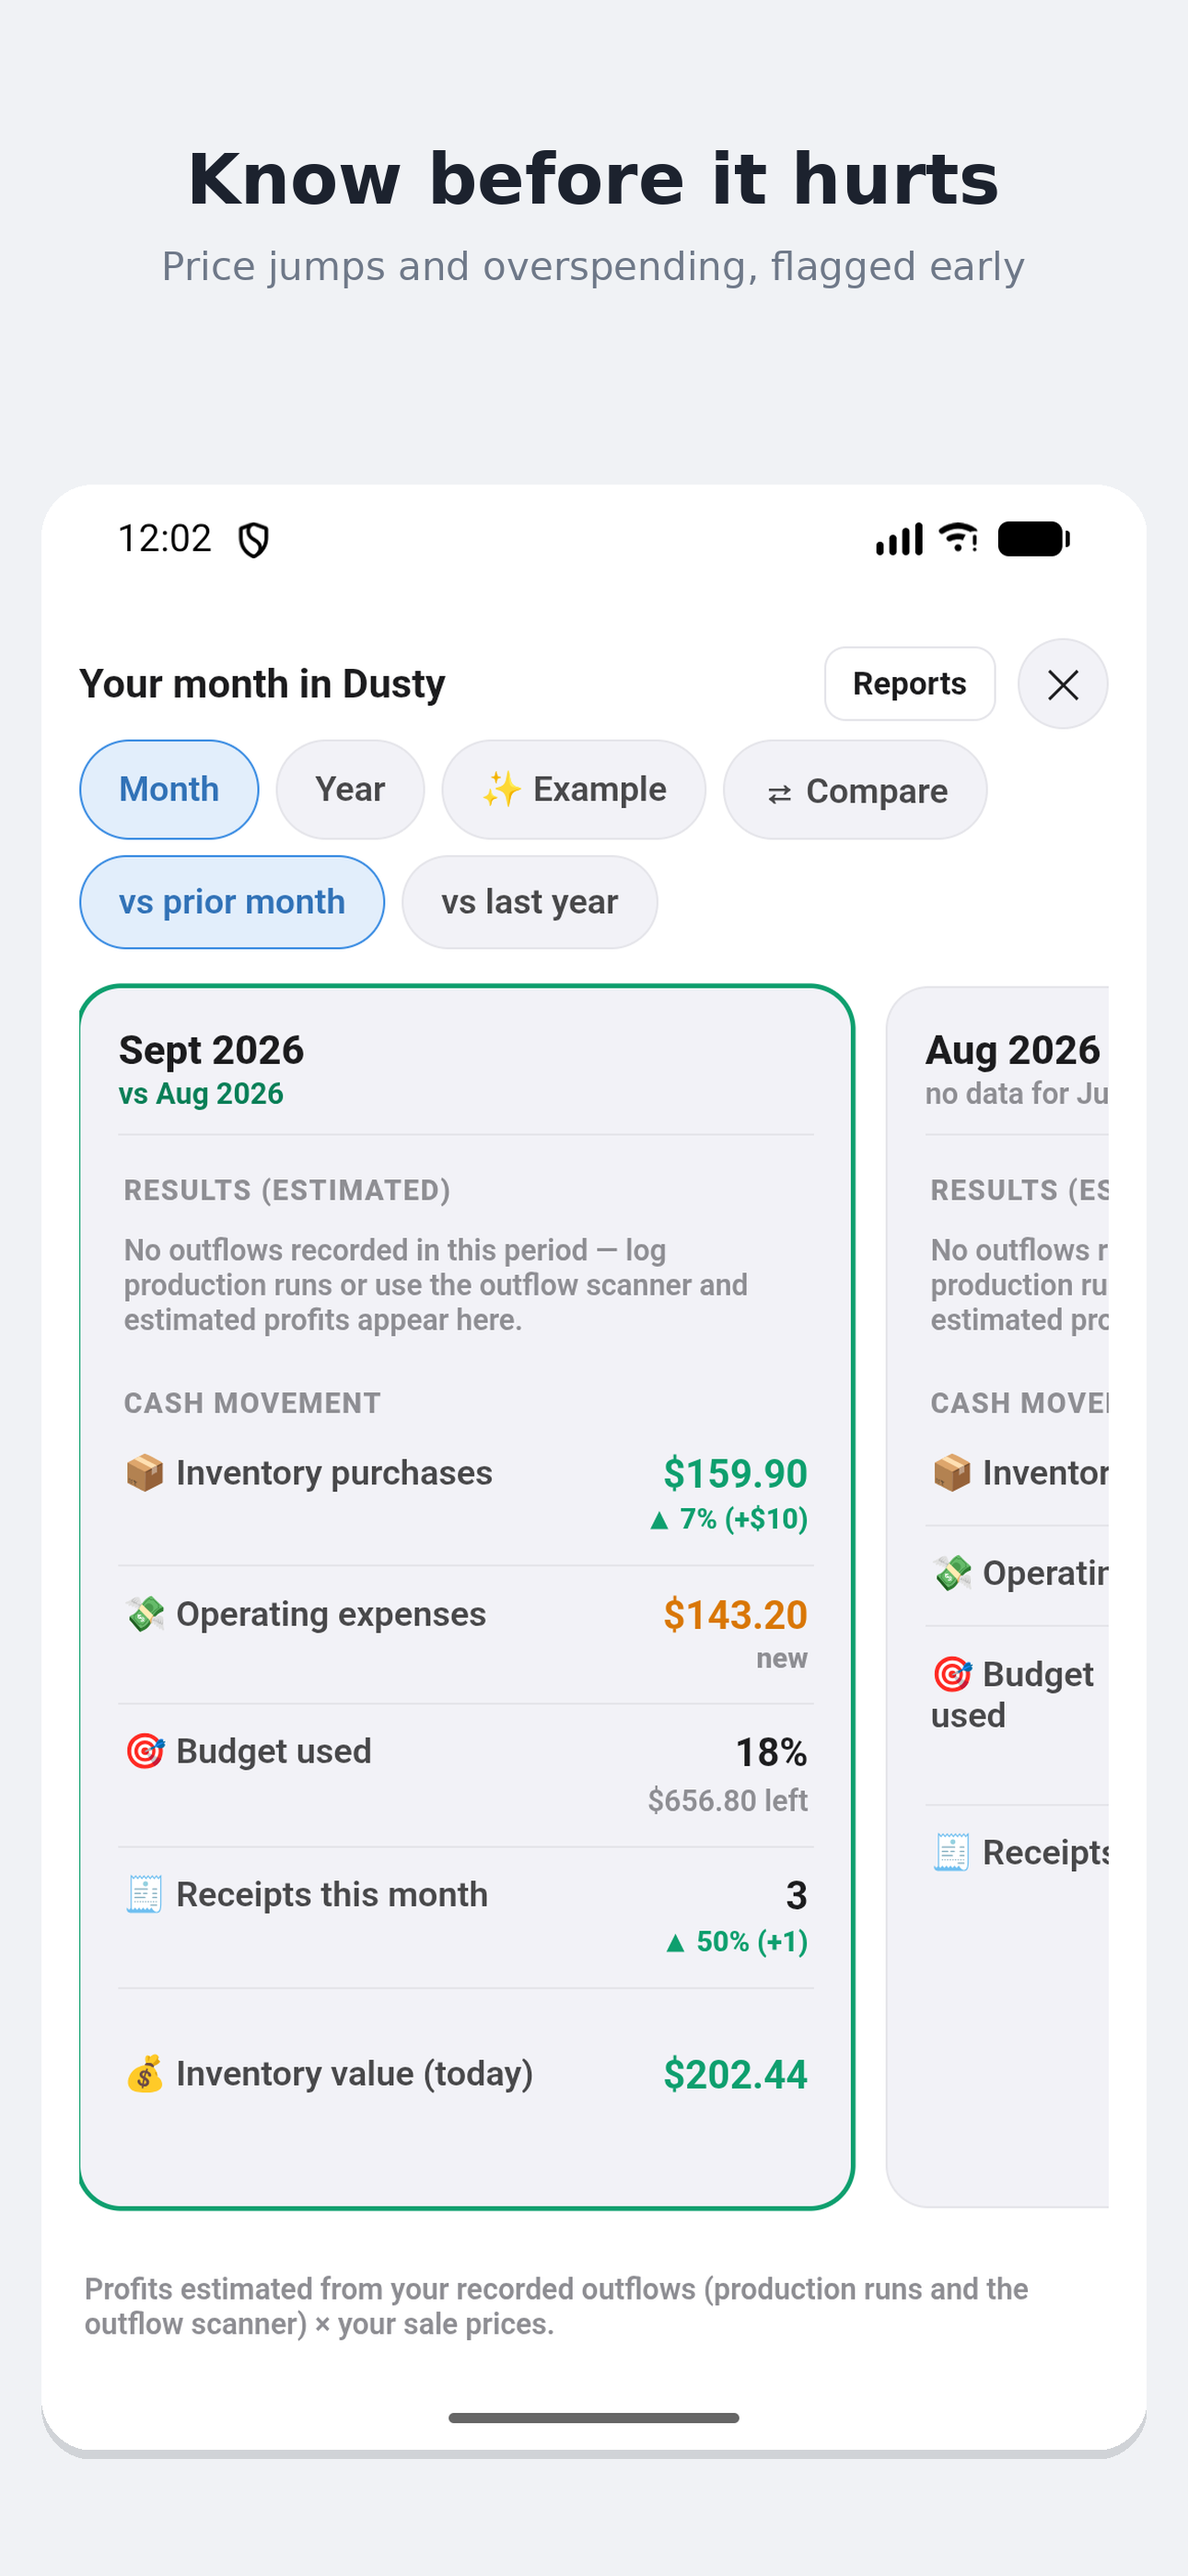
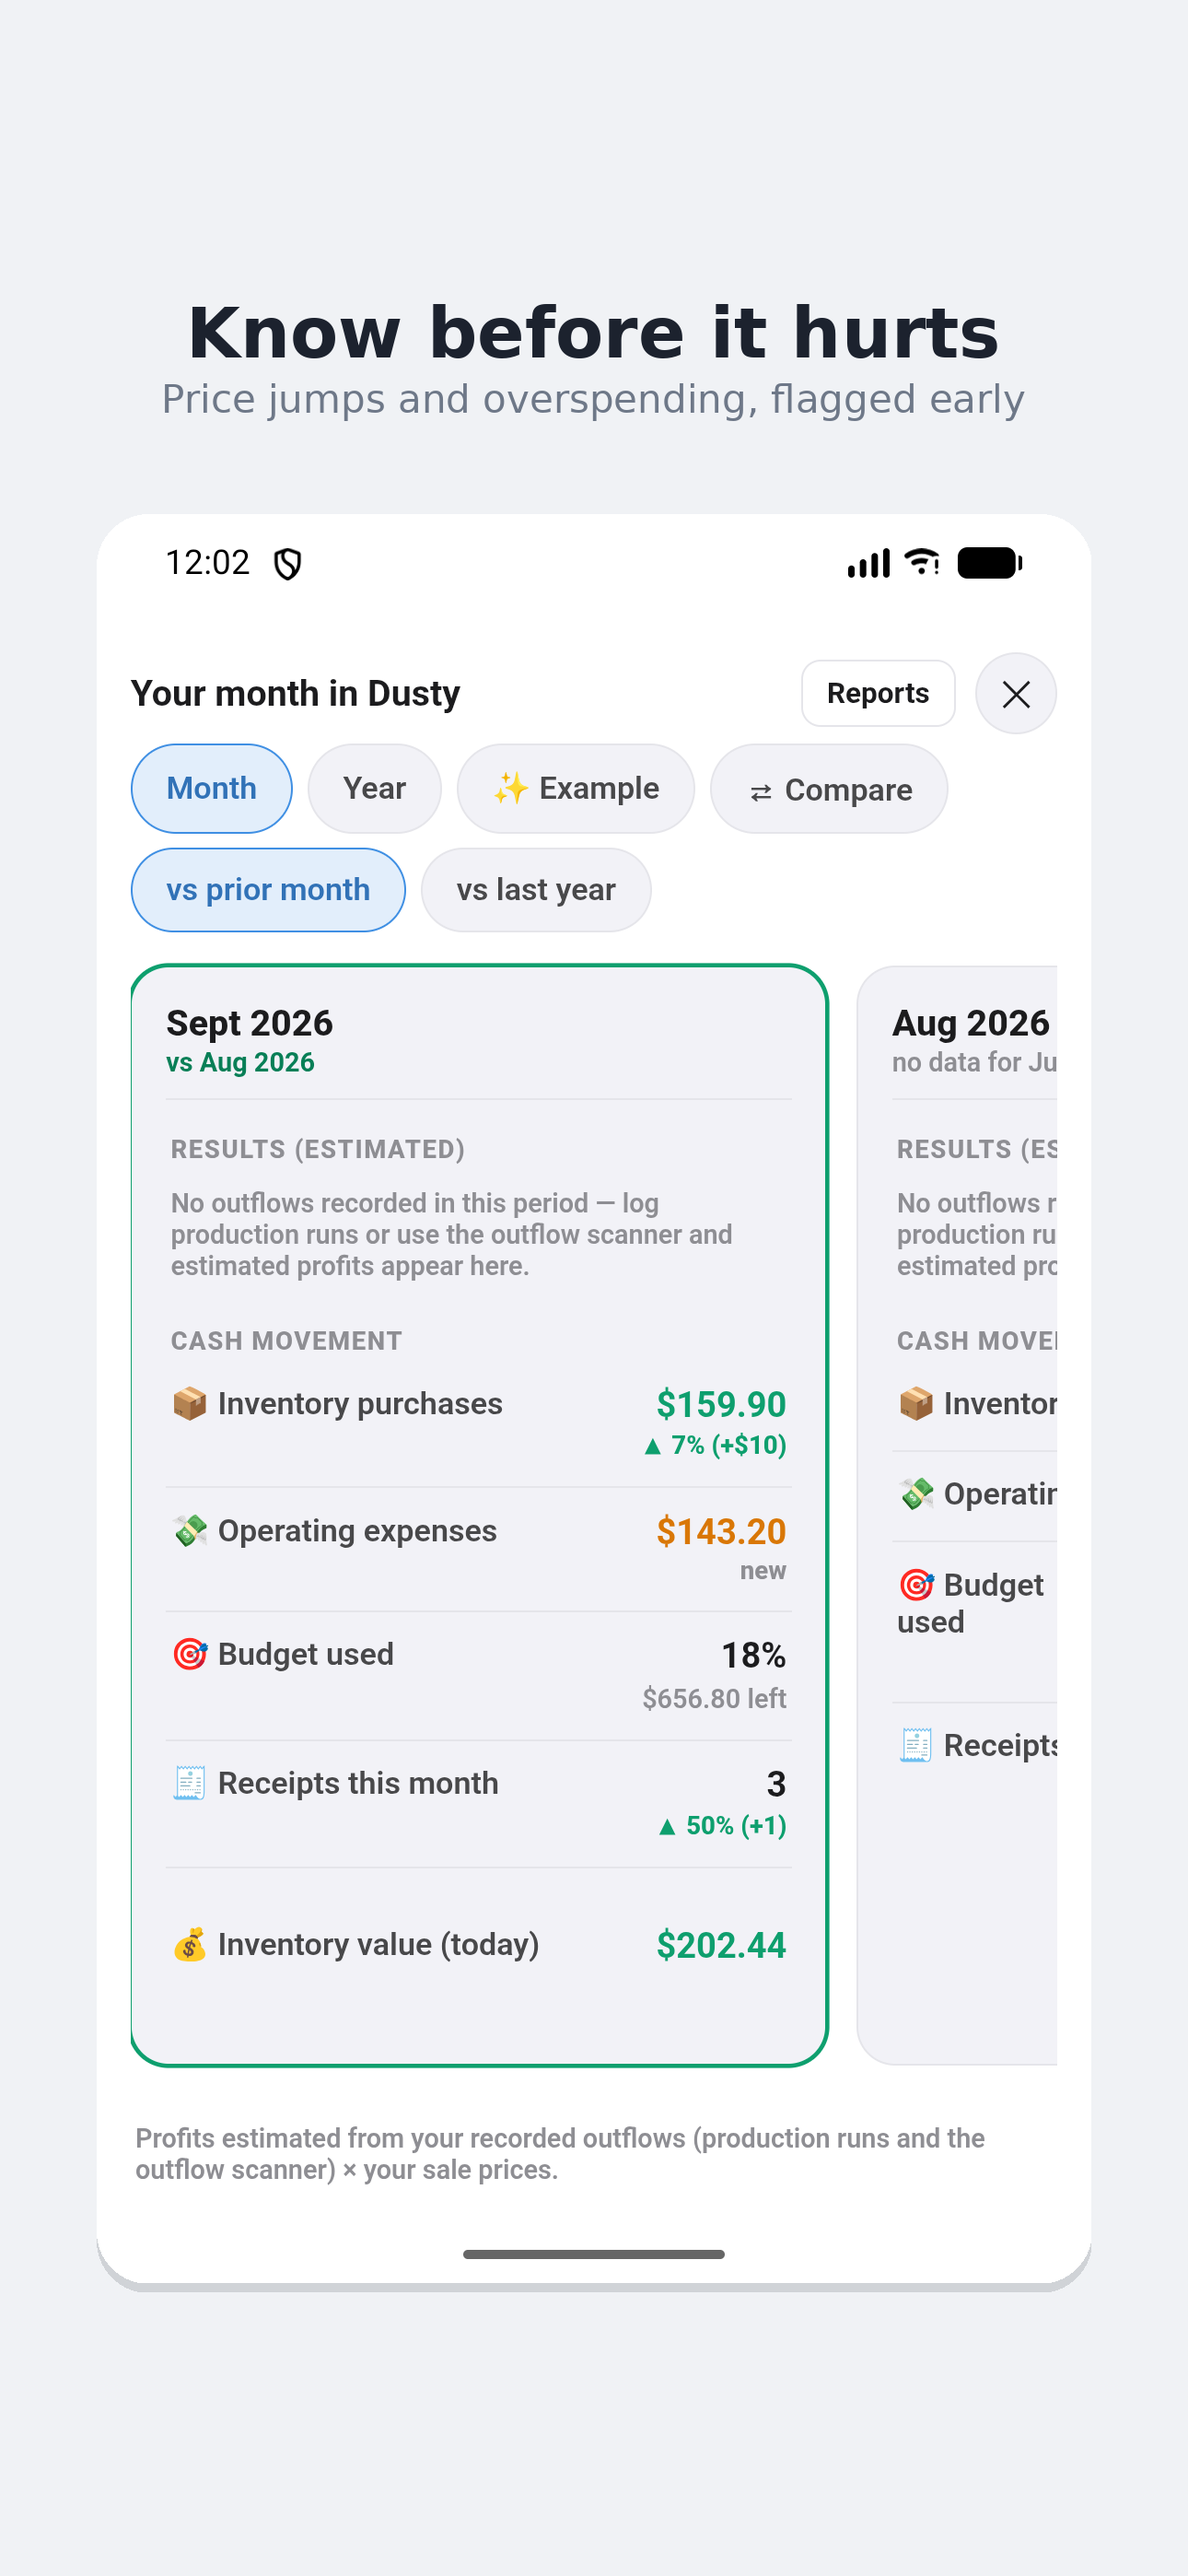
Las capturas de App Store dejan de agrandarse
La versión anterior estiraba la captura de 1080 a 1200 de ancho para llenar el
lienzo, o sea un 11% de agrandamiento y pérdida de nitidez a cambio de nada: el
lienzo mide 1290 y el original 1080, así que entra tal cual. Ahora solo se
achica si alguna vez entra una captura más ancha que el lienzo, y el texto se
centra junto con la imagen como un solo bloque — anclado arriba quedaba un pozo
entre la bajada y la captura que se leía como un olvido de maquetado.

Claude-Session: https://claude.ai/code/session_01QHYvS7ErrmfPLF5JLpFZV7

diff --git a/scripts/build-ios-screenshots.py b/scripts/build-ios-screenshots.py
@@ -59,22 +59,33 @@ def armar(nombre_origen, titulo, bajada, salida):
     lienzo = Image.new('RGB', (ANCHO, ALTO), FONDO)
     draw = ImageDraw.Draw(lienzo)
 
-    centrar_texto(draw, titulo, 150, fuente(76, negrita=True), TINTA)
-    centrar_texto(draw, bajada, 265, fuente(42), TINTA_SUAVE)
 
-    # La captura se lleva todo el ancho que permita el margen y se centra en lo
-    # que queda debajo del texto. Un margen chico importa: con 90px a cada lado
-    # sobraban casi 400px de fondo vacío abajo, que se lee como un error de
-    # maquetado y no como aire a propósito.
-    margen = 45
-    ancho_captura = ANCHO - margen * 2
-    escala = ancho_captura / captura.width
-    alto_captura = int(captura.height * escala)
-    captura = captura.resize((ancho_captura, alto_captura), Image.LANCZOS)
+    # NUNCA se agranda la captura. El lienzo tiene 1290 de ancho y el original
+    # 1080, así que entra tal cual: estirarlo al ancho disponible sería un 11% de
+    # agrandamiento y perder nitidez por nada, cuando lo que sobra es lienzo, no
+    # imagen. Solo se achica si alguna vez entra una captura más ancha que el
+    # lienzo (por ejemplo, sacada de un simulador Pro Max).
+    margen_minimo = 45
+    ancho_maximo = ANCHO - margen_minimo * 2
+    if captura.width > ancho_maximo:
+        escala = ancho_maximo / captura.width
+        captura = captura.resize(
+            (ancho_maximo, int(captura.height * escala)), Image.LANCZOS)
+    ancho_captura, alto_captura = captura.size
+    margen = (ANCHO - ancho_captura) // 2
     captura = esquinas_redondeadas(captura, 56)
 
-    tope_texto = 390
-    arriba = tope_texto + (ALTO - tope_texto - alto_captura) // 2
+    # Texto y captura se centran como un solo bloque en vez de repartirse el
+    # lienzo por separado: al no agrandar la captura sobra bastante alto, y
+    # anclando el texto arriba del todo quedaba un pozo entre la bajada y la
+    # imagen que se leía como un olvido.
+    ALTO_TITULO, ALTO_BAJADA, AIRE = 92, 54, 95
+    alto_bloque = ALTO_TITULO + ALTO_BAJADA + AIRE + alto_captura
+    y = (ALTO - alto_bloque) // 2
+
+    centrar_texto(draw, titulo, y, fuente(76, negrita=True), TINTA)
+    centrar_texto(draw, bajada, y + ALTO_TITULO, fuente(42), TINTA_SUAVE)
+    arriba = y + ALTO_TITULO + ALTO_BAJADA + AIRE
     # Sombra: un rectángulo oscuro apenas corrido, sin desenfoque para no sumar
     # dependencias. A este tamaño alcanza para despegar la captura del fondo.
     sombra = Image.new('RGBA', (ancho_captura, alto_captura), (0, 0, 0, 0))
